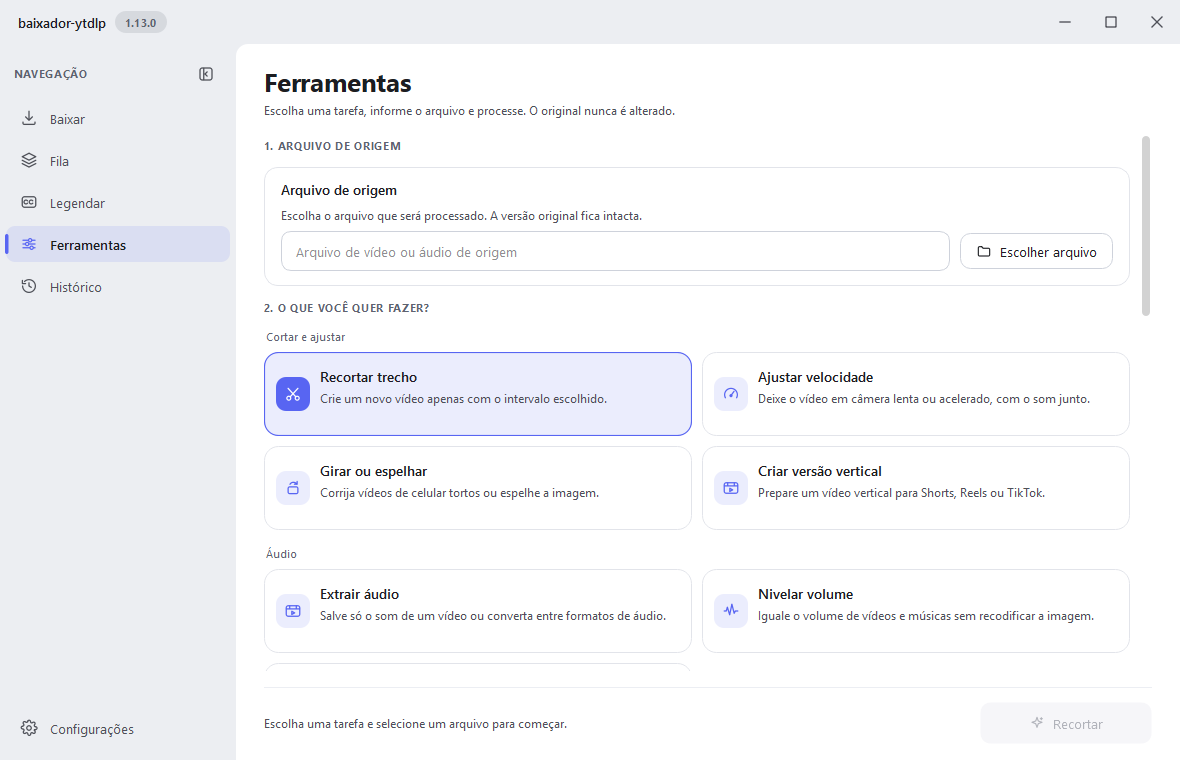
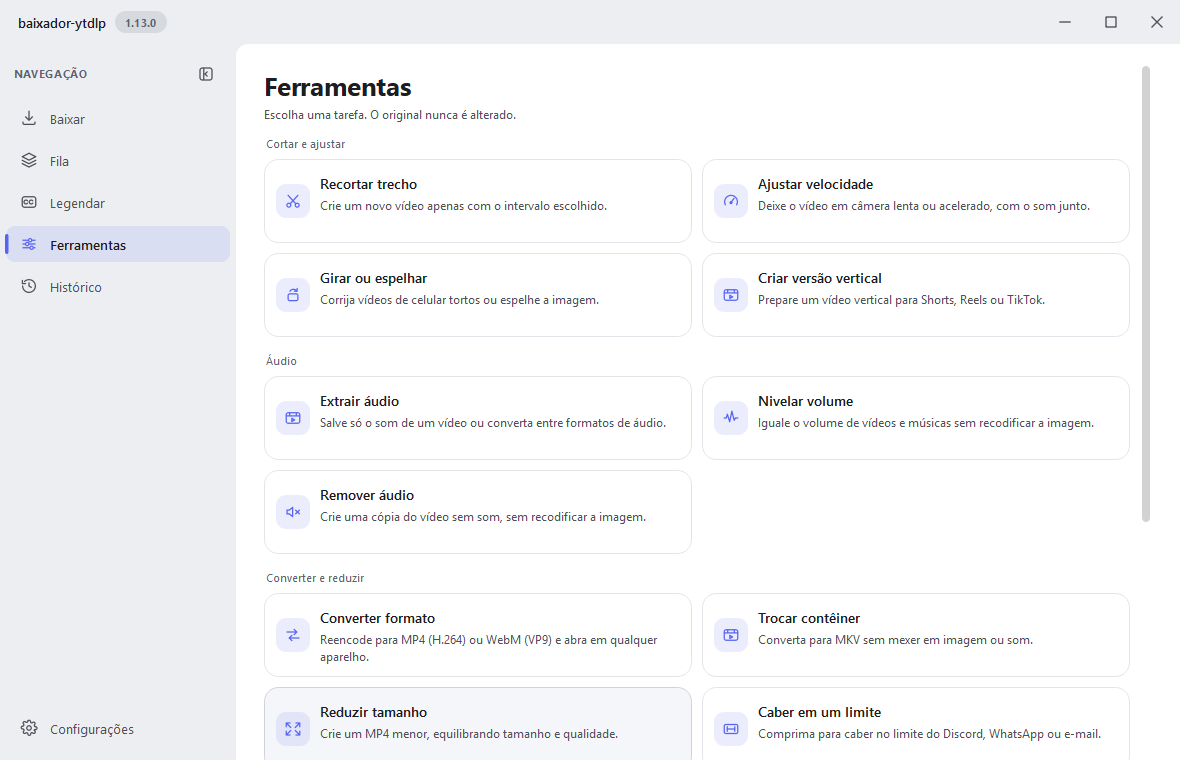
feat: aba Ferramentas vira hub com página própria por ferramenta
Como em Configurações: os cartões ficam num hub e cada um abre a página da
ferramenta com caminho Ferramentas › Nome, arquivo de origem, ajustes e botão.
Ferramentas sem ajustes não mostram a seção vazia e outra ferramenta não abre
durante uma tarefa em andamento. Recaptura da tela do hub.

diff --git a/baixador_ytdlp/ui/media_tools_page.py b/baixador_ytdlp/ui/media_tools_page.py
@@ -5,16 +5,18 @@ from pathlib import Path
 
 from PySide6.QtCore import QRectF, QSize, Qt, Signal
 from PySide6.QtGui import QFontMetrics, QPainter, QPen
-from PySide6.QtWidgets import (QAbstractButton, QButtonGroup, QFileDialog, QGridLayout,
-                               QHBoxLayout, QSizePolicy, QVBoxLayout, QWidget)
+from PySide6.QtWidgets import (QAbstractButton, QFileDialog, QGridLayout,
+                               QHBoxLayout, QSizePolicy, QStackedWidget, QVBoxLayout,
+                               QWidget)
 
 from ..media_tools import (DEFAULT_CHOICE, MediaToolOptions, available_destination,
                            default_destination)
 from ..workers import MediaToolWorker
 from . import icons, theme
-from .components import (Button, Divider, Headline, Hint, InsetGroup, Muted, PageHeader,
-                         PrimaryButton, ProgressBar, ScrollColumn, SectionLabel, Select,
-                         SettingRow, Switch, TextField, Toast)
+from .components import (BreadcrumbChevron, BreadcrumbCurrent, BreadcrumbLink, Button, Divider,
+                         Headline, Hint, InsetGroup, Muted, PageHeader, PrimaryButton, ProgressBar,
+                         ScrollColumn, SectionLabel, Select, SettingRow, Switch, TextField,
+                         Toast)
 from .i18n import tr
 
 MEDIA_FILTER = ("Mídia (*.mp4 *.mkv *.webm *.mov *.avi *.m4v *.ts *.mpg *.mpeg *.wmv *.flv "
@@ -208,7 +210,6 @@ class ToolCard(QAbstractButton):
         self.operation = operation
         self.data = OPERATIONS[operation]
         self.setText(tr(self.data["title"]))
-        self.setCheckable(True)
         self.setCursor(Qt.CursorShape.PointingHandCursor)
         self.setMinimumHeight(84)
         self.setSizePolicy(QSizePolicy.Policy.Expanding, QSizePolicy.Policy.Fixed)
@@ -216,7 +217,6 @@ class ToolCard(QAbstractButton):
         self.setAccessibleName(tr(self.data["title"]))
         self.setAccessibleDescription(tr(self.data["summary"]))
         self.setFocusPolicy(Qt.FocusPolicy.StrongFocus)
-        self.toggled.connect(self.update)
         self.pressed.connect(self.update)
         self.released.connect(self.update)
 
@@ -249,23 +249,20 @@ class ToolCard(QAbstractButton):
         painter = QPainter(self)
         painter.setRenderHint(QPainter.RenderHint.Antialiasing, True)
         rect = QRectF(self.rect()).adjusted(0.5, 0.5, -0.5, -0.5)
-        active = self.isChecked()
         hovered = self.underMouse()
-        fill = theme.qcolor("accent_soft") if active else theme.qcolor(
-            "surface_hover" if hovered else "surface")
-        border = theme.qcolor("accent" if active else (
-            "border_strong" if hovered else "border"))
-        painter.setPen(QPen(border, 1.2 if active else 1))
+        fill = theme.qcolor("surface_hover" if hovered else "surface")
+        border = theme.qcolor("border_strong" if hovered else "border")
+        painter.setPen(QPen(border, 1))
         painter.setBrush(fill)
         painter.drawRoundedRect(rect, theme.RADIUS_CARD, theme.RADIUS_CARD)
 
         icon_top = (self.height() - 34) / 2
         icon_rect = QRectF(12, icon_top, 34, 34)
         painter.setPen(Qt.PenStyle.NoPen)
-        painter.setBrush(theme.qcolor("accent_soft" if not active else "accent"))
+        painter.setBrush(theme.qcolor("accent_soft"))
         painter.drawRoundedRect(icon_rect, 10, 10)
-        icon_tone = "accent" if not active else "on_accent"
-        painter.drawPixmap(20, int(icon_top) + 8, icons.pixmap(self.data["icon"], theme.color(icon_tone), 18))
+        painter.drawPixmap(20, int(icon_top) + 8,
+                           icons.pixmap(self.data["icon"], theme.color("accent"), 18))
 
         title_x = self._TITLE_X
         painter.setFont(theme.headline())
@@ -316,36 +313,69 @@ class MediaToolsPage(QWidget):
     def _build_ui(self) -> None:
         root = QVBoxLayout(self)
         root.setContentsMargins(28, 20, 28, 0)
-        root.setSpacing(16)
-        root.addWidget(PageHeader(
+        root.setSpacing(0)
+        # Como em Configurações: um hub com os cartões e, ao escolher um, a página da ferramenta.
+        self.pages = QStackedWidget(self)
+        root.addWidget(self.pages)
+
+        self.landing = ScrollColumn(self, spacing=14)
+        self.landing.add(PageHeader(
             "Ferramentas",
-            "Escolha uma tarefa, informe o arquivo e processe. O original nunca é alterado.",
+            "Escolha uma tarefa. O original nunca é alterado.",
             self))
+        self.landing.add(self._tool_picker())
+        self.landing.add_stretch()
+        self.pages.addWidget(self.landing)
 
-        page = ScrollColumn(self, spacing=14)
-        root.addWidget(page, 1)
+        detail = QWidget(self)
+        self.detail = detail
+        layout = QVBoxLayout(detail)
+        layout.setContentsMargins(0, 0, 0, 0)
+        layout.setSpacing(8)
+        breadcrumb = QHBoxLayout()
+        breadcrumb.setSpacing(4)
+        self.back_link = BreadcrumbLink("Ferramentas", detail)
+        self.back_link.setAccessibleName("Voltar para Ferramentas")
+        self.back_link.clicked.connect(self._show_landing)
+        breadcrumb.addWidget(self.back_link)
+        breadcrumb.addWidget(BreadcrumbChevron(detail))
+        self.options_title = BreadcrumbCurrent("", detail)
+        breadcrumb.addWidget(self.options_title, 1)
+        layout.addLayout(breadcrumb)
+        self.options_summary = Muted("", detail)
+        layout.addWidget(self.options_summary)
 
-        page.add(SectionLabel("1. Arquivo de origem", self))
+        page = ScrollColumn(detail, spacing=14)
+        layout.addWidget(page, 1)
         page.add(self._source_group())
-        page.add(SectionLabel("2. O que você quer fazer?", self))
-        page.add(self._tool_picker())
-        page.add(SectionLabel("3. Ajustes desta tarefa", self))
+        self.options_label = page.add(SectionLabel("Ajustes", detail))
         page.add(self._options_group())
-        page.add(SectionLabel("4. Onde salvar", self))
         page.add(self._destination_group())
         page.add_stretch()
+        layout.addWidget(self._action_bar())
+        self.pages.addWidget(detail)
 
-        root.addWidget(self._action_bar())
-        self._tool_cards["trim"].setChecked(True)
         self._operation_changed("trim")
+
+    def _show_landing(self) -> None:
+        self.pages.setCurrentWidget(self.landing)
+        self.setFocus(Qt.FocusReason.OtherFocusReason)
+
+    def _open_tool(self, operation: str) -> None:
+        if self.has_active_work() and operation != self._operation_key:
+            Toast.info("Há uma tarefa em andamento",
+                       "Espere terminar ou cancele antes de abrir outra ferramenta.",
+                       parent=self.window())
+            return
+        self._operation_changed(operation)
+        self.pages.setCurrentWidget(self.detail)
+        self.setFocus(Qt.FocusReason.OtherFocusReason)
 
     def _tool_picker(self) -> QWidget:
         host = QWidget(self)
         column = QVBoxLayout(host)
         column.setContentsMargins(0, 0, 0, 0)
         column.setSpacing(8)
-        self.operation_buttons = QButtonGroup(self)
-        self.operation_buttons.setExclusive(True)
         self._tool_cards: dict[str, ToolCard] = {}
         for position, (group_title, operations) in enumerate(GROUPS):
             label = Hint(group_title, host)
@@ -358,9 +388,7 @@ class MediaToolsPage(QWidget):
             for index, operation in enumerate(operations):
                 card = ToolCard(operation, host)
                 self._tool_cards[operation] = card
-                self.operation_buttons.addButton(card)
-                card.toggled.connect(
-                    lambda checked, value=operation: self._operation_changed(value) if checked else None)
+                card.clicked.connect(lambda _checked=False, value=operation: self._open_tool(value))
                 grid.addWidget(card, index // 2, index % 2)
             column.addLayout(grid)
         return host
@@ -381,16 +409,6 @@ class MediaToolsPage(QWidget):
     def _options_group(self) -> InsetGroup:
         group = InsetGroup(self)
         self.options_group = group
-        intro = QWidget(group)
-        intro_layout = QVBoxLayout(intro)
-        intro_layout.setContentsMargins(16, 12, 16, 14)
-        intro_layout.setSpacing(4)
-        self.options_title = Headline("Ajustes", intro)
-        self.options_summary = Muted("", intro)
-        intro_layout.addWidget(self.options_title)
-        intro_layout.addWidget(self.options_summary)
-        group.add_row(intro)
-
         self.start_edit = TextField("início 00:01:30", group)
         self.start_edit.setFixedWidth(150)
         self.end_edit = TextField("fim 00:04:00", group)
@@ -548,6 +566,11 @@ class MediaToolsPage(QWidget):
         show(self.subtitle_row, operation == "burn")
         show(self.target_row, operation == "target_size")
         show(self.blur_row, operation == "shorts")
+        rows = (self.time_row, self.fast_trim_row, self.choice_row, self.subtitle_row,
+                self.target_row, self.blur_row)
+        has_options = any(row.isVisibleTo(self.options_group) for row in rows)
+        self.options_label.setVisible(has_options)   # mudo, limpar metadados etc. não têm ajustes
+        self.options_group.setVisible(has_options)
         self.run_button.setText(tr(data["action"]))
         self._suggest_destination()
 

diff --git a/tests/test_media_tools_layout.py b/tests/test_media_tools_layout.py
@@ -36,10 +36,52 @@ class MediaToolsLayoutTests(unittest.TestCase):
             self.assertTrue(page.run_button.isEnabled())
             page.source_edit.setText("")
             self.assertFalse(page.run_button.isEnabled())
+        # a página da ferramenta mostra o arquivo de origem antes dos ajustes
+        page._open_tool("trim")
+        self.app.processEvents()
         self.assertLess(page.source_edit.mapTo(page, page.source_edit.rect().topLeft()).y(),
-                        page._tool_cards["trim"].mapTo(page, page._tool_cards["trim"].rect().topLeft()).y())
+                        page.start_edit.mapTo(page, page.start_edit.rect().topLeft()).y())
         page.close()
         page.deleteLater()
+
+    def test_hub_abre_a_pagina_da_ferramenta_e_volta(self) -> None:
+        page = MediaToolsPage(Settings())
+        page.resize(1000, 750)
+        page.show()
+        try:
+            self.assertIs(page.pages.currentWidget(), page.landing)     # abre no hub, só com cartões
+            self.assertFalse(page.source_edit.isVisibleTo(page))
+            page._tool_cards["gif"].click()
+            self.assertIs(page.pages.currentWidget(), page.detail)
+            self.assertEqual(page.options_title.text(), "Criar GIF animado")
+            self.assertEqual(page._operation(), "gif")
+            page._tool_cards["gif"].click()                             # reabrir a mesma não trava
+            page.back_link.click()
+            self.assertIs(page.pages.currentWidget(), page.landing)
+            page._tool_cards["mute"].click()
+            self.assertEqual(page._operation(), "mute")
+            self.assertFalse(page.options_group.isVisibleTo(page))      # sem ajustes: sem seção vazia
+            self.assertFalse(page.options_label.isVisibleTo(page))
+            page._tool_cards["trim"].click()
+            self.assertTrue(page.options_group.isVisibleTo(page))
+        finally:
+            page.close()
+            page.deleteLater()
+
+    def test_nao_troca_de_ferramenta_com_tarefa_em_andamento(self) -> None:
+        page = MediaToolsPage(Settings())
+        try:
+            page._open_tool("speed")
+            page._show_landing()
+            with patch.object(MediaToolsPage, "has_active_work", return_value=True),                     patch("baixador_ytdlp.ui.media_tools_page.Toast.info") as info:
+                page._tool_cards["gif"].click()
+                self.assertEqual(page._operation(), "speed")
+                self.assertIs(page.pages.currentWidget(), page.landing)
+                info.assert_called_once()
+                page._tool_cards["speed"].click()                       # a que está rodando abre
+                self.assertIs(page.pages.currentWidget(), page.detail)
+        finally:
+            page.deleteLater()
 
     def test_catalogo_e_grupos_batem_e_cada_cartao_existe(self) -> None:
         grouped = [operation for _title, operations in GROUPS for operation in operations]
@@ -82,12 +124,12 @@ class MediaToolsLayoutTests(unittest.TestCase):
                 source.write_bytes(b"x")
                 page.set_media(str(source))
                 self.assertFalse(page.choice_row.isVisibleTo(page))
-                page._tool_cards["audio"].setChecked(True)
+                page._open_tool("audio")
                 self.assertTrue(page.choice_row.isVisibleTo(page))
                 self.assertTrue(page.destination_edit.text().endswith("clipe_audio.mp3"))
                 page.choice_combo.setCurrentIndex(page.choice_combo.findData("flac"))
                 self.assertTrue(page.destination_edit.text().endswith("clipe_audio.flac"))
-                page._tool_cards["frame"].setChecked(True)     # outra ferramenta, outra lista
+                page._open_tool("frame")     # outra ferramenta, outra lista
                 self.assertEqual(page.choice_combo.currentData(), "png")
                 self.assertTrue(page.destination_edit.text().endswith("clipe_quadro.png"))
                 self.assertEqual(page.choice_combo.count(), len(CHOICES["frame"]))
@@ -99,19 +141,20 @@ class MediaToolsLayoutTests(unittest.TestCase):
         page = MediaToolsPage(Settings())
         page.show()
         try:
+            page._open_tool("trim")
             self.assertTrue(page.time_row.isVisibleTo(page))
             self.assertTrue(page.end_edit.isVisibleTo(page))
-            page._tool_cards["frame"].setChecked(True)             # só o momento, sem "fim"
+            page._open_tool("frame")             # só o momento, sem "fim"
             self.assertTrue(page.time_row.isVisibleTo(page))
             self.assertFalse(page.end_edit.isVisibleTo(page))
             self.assertEqual(page.time_row.title.text(), "Momento do quadro")
-            page._tool_cards["gif"].setChecked(True)
+            page._open_tool("gif")
             self.assertTrue(page.end_edit.isVisibleTo(page))
-            page._tool_cards["mute"].setChecked(True)
+            page._open_tool("mute")
             self.assertFalse(page.time_row.isVisibleTo(page))
             self.assertFalse(page.choice_row.isVisibleTo(page))
             self.assertFalse(page.fast_trim_row.isVisibleTo(page))
-            page._tool_cards["trim"].setChecked(True)               # volta ao estado inicial
+            page._open_tool("trim")               # volta ao estado inicial
             self.assertTrue(page.end_edit.isVisibleTo(page))
             self.assertTrue(page.fast_trim_row.isVisibleTo(page))
             self.assertEqual(page.time_row.title.text(), "Início e fim")
@@ -160,7 +203,7 @@ class MediaToolsLayoutTests(unittest.TestCase):
                 page.set_media(str(source))
                 page.start_edit.setText("00:00:10")
                 page.end_edit.setText("00:00:20")
-                page._tool_cards["speed"].setChecked(True)          # sem linha de tempo
+                page._open_tool("speed")          # sem linha de tempo
                 page.choice_combo.setCurrentIndex(page.choice_combo.findData("4"))
                 page._run()
                 options = captured["options"]
@@ -178,9 +221,9 @@ class MediaToolsLayoutTests(unittest.TestCase):
         try:
             group = page.options_group
             holder = group._dividers[page.choice_row]
-            page._tool_cards["audio"].setChecked(True)
+            page._open_tool("audio")
             self.assertTrue(holder.isVisibleTo(page))
-            page._tool_cards["mute"].setChecked(True)
+            page._open_tool("mute")
             self.assertFalse(page.choice_row.isVisibleTo(page))
             self.assertFalse(holder.isVisibleTo(page))          # sem linha solta no bloco
         finally:

diff --git a/CHANGELOG.md b/CHANGELOG.md
@@ -3,6 +3,15 @@
 Todas as mudanças relevantes deste projeto serão registradas aqui, seguindo o
 formato Keep a Changelog.
 
+## [Não lançado]
+
+### Alterado
+
+- A aba Ferramentas agora é um hub como Configurações: os cartões abrem a página de cada
+  ferramenta (`Ferramentas › Nome`) com o arquivo, os ajustes e o botão de processar. Ferramentas
+  sem ajustes (remover áudio, limpar metadados) não mostram a seção vazia, e não dá para abrir
+  outra ferramenta enquanto uma tarefa está rodando.
+
 ## [1.13.0] - 2026-09-30
 
 ### Adicionado
